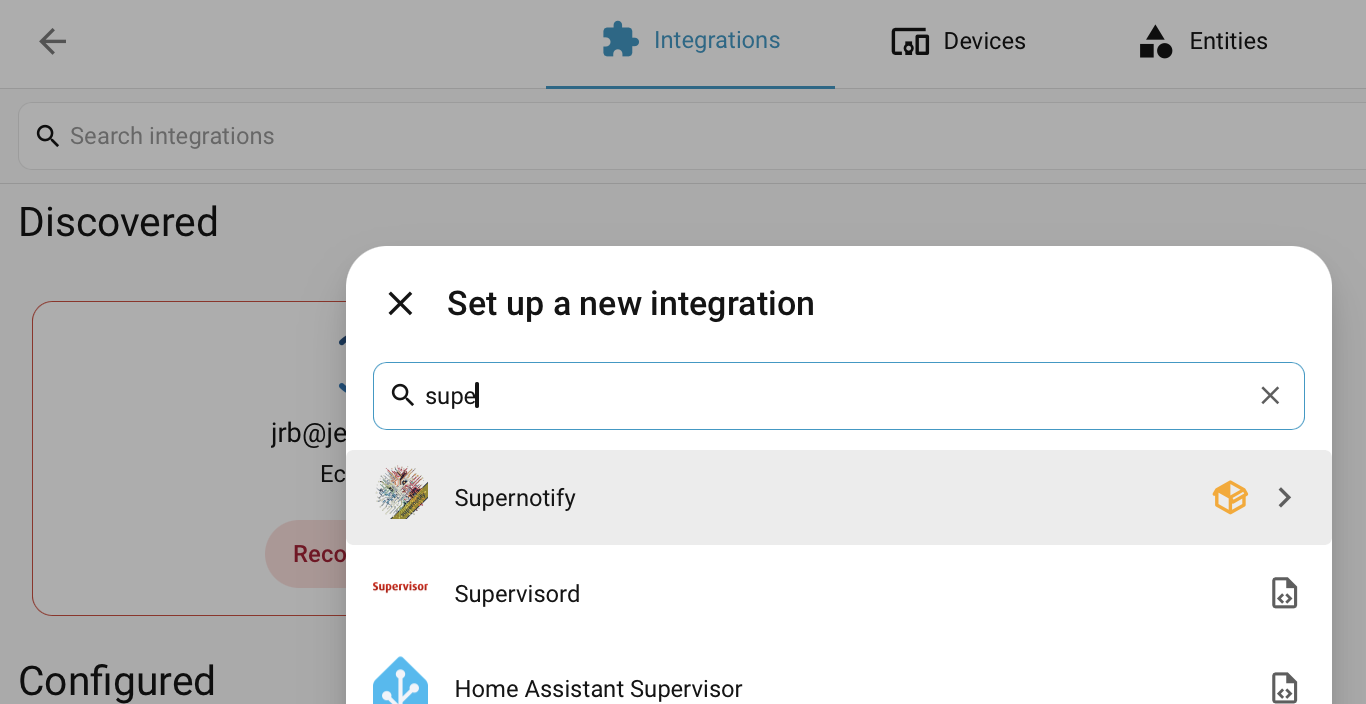
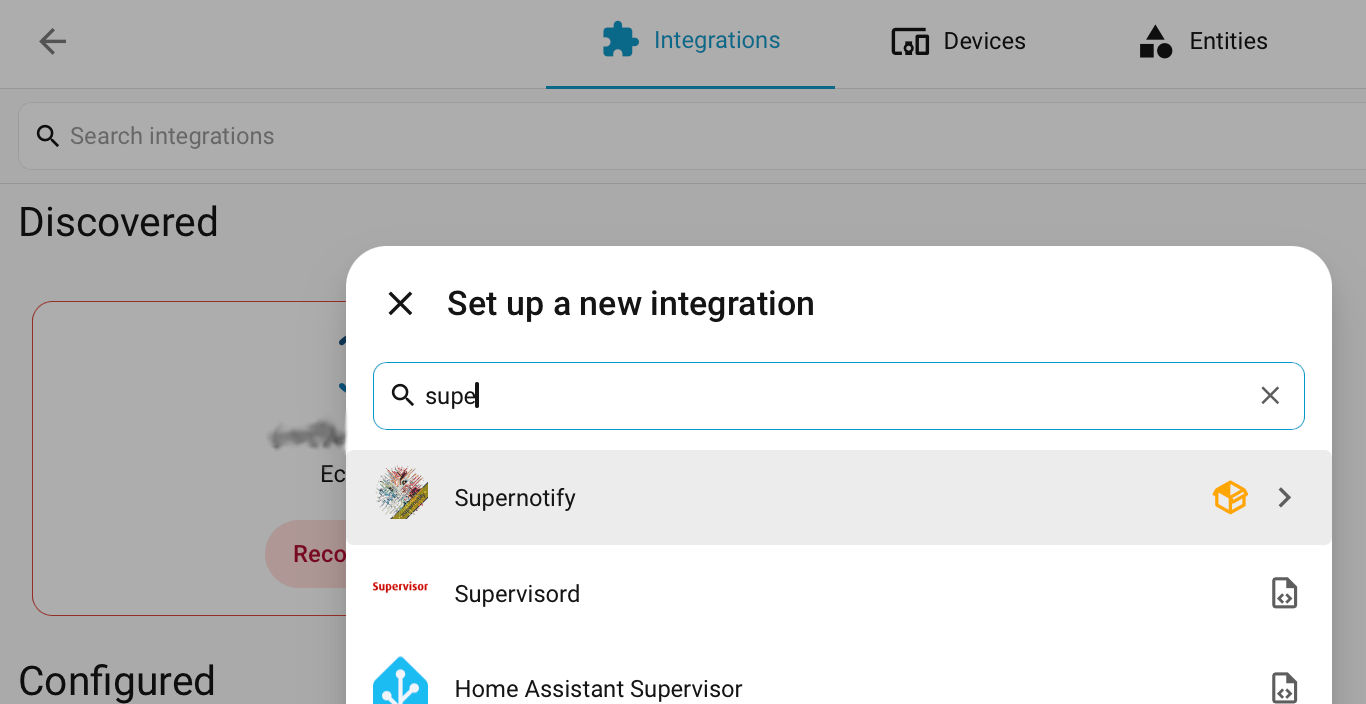
docs

diff --git a/docs/developer/design/packages.md b/docs/developer/design/packages.md
@@ -1,0 +1,310 @@
+# Packages
+
+(provisional name for implementation)
+
+## Problem
+
+Often SuperNotify is a small part of what's needed for example setting up notifications - Frigate involves understanding blueprints using live activities for a dishwasher requires setting up multiple automations and fine tuning mobile push the blocks. The real value from SuperNotify comes when a less technical user is able to immediately start getting notifications from things like their washing machine or dishwasher of Frigate with minimal technical understanding zero knowledge of YAML and minimal automation set up.
+
+## Vision
+
+When setting up Supernotify, it checks for things that could have automatic notifications configured, and asks if want to switch those on.
+
+Each package has a detection function, which is used to discover if it can be applied, a set of default deliveries and messages (with translation keys) and the ability to customize the notification part with all the usual Supernotify options.
+
+Everything about this is ConfigFlow based, there is no YAML required, nor offered for advanced usage.
+
+The "packages" could also be selected after the fact, either directly in the main Supernotify ConfigFlow, or as "helper" objects.
+
+## Examples
+
+### Live Notifications for Appliances
+
+If there's a connected appliance like dishwasher, it will send a start and stop [Live Activity](https://companion.home-assistant.io/docs/notifications/live-activities) notification to mobile devices with an appropriate icon.
+
+If the appliance has a time-remaining and/or progress quantity, these will be passed using the `progress` and `chronometer` values. If these are `unavailable` they're not sent and the simpler style prevails.
+
+At the end, there's an additional notification to mobile_push only with special text "clear_notification" that will clear the live dialog box but isn't really a notification in its own right.
+
+Where elapsed and progress are available, the notification will be periodically resent on a timer to update the bar.
+
+If the end never happens, there's a timeout where the notification is auto-cleared.
+
+### Motion Sensors
+
+Home Assistant triggers have made it easier to set up automations for things like PIRs, but they still require automations with triggers and actions, and are another case where auto-detection would simplify for non-tech and expert users.
+
+The blueprint below shows how complicated it becomes when you don't want bothered by alerts if alarm is disarmed, and you want to be very bothered if the house is unoccupied.
+
+```yaml title="Real PIR Blueprint"
+blueprint:
+  name: Generic PIR alert
+  description: Take action if PIR fires
+  domain: automation
+  input:
+    motion_sensor:
+      name: Motion Sensor
+      description: This sensor will trigger the actions.
+      selector:
+        entity:
+          filter:
+            device_class: motion
+            domain: binary_sensor
+
+    details:
+      name: Alert details
+      description: Details of the sensor for alert
+      default: ""
+      selector:
+        text:
+    danger:
+      name: Danger flag
+      description: Is there a potential danger or just a sheep
+      default: true
+      selector:
+        boolean:
+
+    light:
+      name: Light
+      description: Light entity to switch on
+      default: switch.library_standard_lamp
+      selector:
+        target:
+          entity:
+            domain: switch
+    camera:
+      name: CCTV Camera
+      description: Camera to show on notification
+      default: camera.courtyard
+      selector:
+        media:
+    outdoors:
+      name: Outdoors
+      description: Is in an external zone
+      default: true
+      selector:
+        boolean:
+
+variables:
+  motion_sensor: !input motion_sensor
+  details: !input details
+  danger: !input danger
+  light: !input light
+  camera: !input camera
+  outdoors: !input outdoors
+  description: "{{ details | default(state_attr(motion_sensor,'friendly_name'),true) }}"
+
+triggers:
+  - trigger: state
+    entity_id: !input motion_sensor
+    from: "off"
+    to: "on"
+
+action:
+  - choose:
+      - conditions:
+          - not:
+              - condition: state
+                entity_id: alarm_control_panel.home_alarm_control
+                state: disarmed
+          - condition: time
+            after: "22:00:00"
+            before: "06:00:00"
+          - condition: template
+            value_template: "{{ danger }}"
+        sequence:
+          # armed, dangerous, night
+          parallel:
+            - action: switch.turn_on
+              entity_id: switch.middle_bedroom_light
+            - action: switch.turn_on
+              entity_id: switch.library_standard_lamp
+            - action: switch.turn_on
+              continue_on_error: true
+              entity_id: !input light
+            - action: supernotify.notify
+              continue_on_error: true
+              data:
+                title: "Home Security: {{ description }}"
+                message: "WARNING! Night motion in {{ description }}"
+                data:
+                  priority: high
+                  media:
+                    camera_entity_id: !input camera
+
+      - conditions:
+          - not:
+              - condition: state
+                entity_id: alarm_control_panel.home_alarm_control
+                state: disarmed
+          - condition: time
+            before: "22:00:00"
+            after: "06:00:00"
+          - condition: template
+            value_template: "{{ danger }}"
+        sequence:
+          # armed, dangerous, day
+          parallel:
+            - action: supernotify.notify
+              continue_on_error: true
+              data:
+                title: "Home Security: {{ description }}"
+                message: "WARNING! Motion in {{ description }}"
+                data:
+                  priority: high
+                  media:
+                    camera_entity_id: !input camera
+
+      - conditions:
+          and:
+            - condition: template
+              value_template: "{{ danger and outdoors }}"
+            - not:
+                - condition: state
+                  entity_id: alarm_control_panel.home_alarm_control
+                  state: disarmed
+
+        sequence:
+          # armed, dangerous, outdoor, day or night
+          - action: supernotify.notify
+            continue_on_error: true
+            data:
+              title: "Home Security: {{ description }}"
+              message: "Warning! Outdoors motion in {{ description }}"
+              data:
+                media:
+                  camera_entity_id: !input camera
+
+      - conditions:
+          and:
+            - condition: template
+              value_template: "{{ danger and not outdoors}}"
+            - not:
+                - condition: state
+                  entity_id: alarm_control_panel.home_alarm_control
+                  state: disarmed
+            - condition: time
+              after: "22:00:00"
+              before: "06:00:00"
+
+        sequence:
+          # armed, dangerous, indoors, night
+          parallel:
+            - action: supernotify.notify
+              continue_on_error: true
+              data:
+                title: "Home Security: {{ description }}"
+                message: "WARNING! Indoors night motion in {{ description }}"
+                data:
+                  media:
+                    camera_entity_id: !input camera
+
+      - conditions:
+          condition: and
+          conditions:
+            - condition: or
+              conditions:
+                - condition: state
+                  entity_id: person.joe_mctest
+                  state: home
+                - condition: state
+                  entity_id: person.jane_mctest
+                  state: home
+            - condition: template
+              value_template: "{{ not danger }}"
+            - condition: state
+              entity_id: alarm_control_panel.home_alarm_control
+              state: armed_night
+            - condition: time
+              after: "22:00:00"
+              before: "06:00:00"
+        sequence:
+          # armed at night, not dangerous, occupied
+          parallel:
+            - action: switch.turn_on
+              continue_on_error: true
+              entity_id: !input light
+            - action: supernotify.notify
+              continue_on_error: true
+              data:
+                title: "Home Security: {{ description}}"
+                message: "Night motion while occupied in {{ description }}"
+                data:
+                  priority: low
+                  media:
+                    camera_entity_id: !input camera
+```
+
+### Frigate
+
+The [Frigate Blueprint](https://github.com/SgtBatten/HA_blueprints/tree/main/Frigate_Camera_Notifications) works well, however using Blueprints is still not very non-tech friendly, a lot of the blueprint logic is doing things in clumsy YAML that are already done in Supernotify, and there are some long standing bugs like mobile groups to work around.
+
+The Frigate `package` would pick up that there's a known MQTT topic or Frigate proxy, and set up an MQTT subscription for mobile push, email and voice announce by default. It would offer everything the blueprint has, address known bugs and workarounds like faking a `notify_device` and avoiding broken images.
+
+
+```yaml title="Current Supernotify usage of Frigate Blueprint"
+use_blueprint:
+    path: frigate/beta.yaml
+    input:
+      camera:
+      - camera.driveway_frigate
+      notify_device: ad4dccb09ec6fd181fb01aecb8de3785
+      notify_group: supernotifier
+      critical: true
+      labels:
+      - car
+      - bicycle
+      - motorcycle
+      video: '{{base_url}}/api/frigate{{client_id}}/notifications/{{id}}/{{camera}}/master.m3u8'
+      presence_filter:
+      - ''
+      mqtt_topic: frigate/reviews
+      ios_live_view: camera.driveway
+      base_url: https://home.23acaciaavenue.org
+      tap_action: '{{base_url}}/api/frigate{{client_id}}/notifications/{{id}}/{{camera}}/master.m3u8'
+```
+
+Frigate could have multiple flows - regular event detection (`frigate/reviews`), GenAI events (`frigate/tracked_object_update`) with different options per camera, or using message checks or HA state to prioritize or tune delivery.
+
+```yaml title="Real Frigate Scenarios"
+  silence_frigate:
+    alias: No notification for uninteresting frigate genai
+    conditions:
+      condition: and
+      conditions:
+        - "{{'A Person, Billy' in notification_message|upper}}"
+        - "{{'A Person, Jean' in notification_message|upper}}"
+        - "{{'UNKNOWN BIRD' in notification_message|upper}}"
+        - condition: state
+          entity_id: alarm_control_panel.home_alarm_control
+          state:
+            - disarmed
+            - armed_home
+            - armed_night
+    delivery:
+      .*:
+        enabled: false
+  person_detected_disarmed:
+    alias: only chime for people when disarmed
+    delivery:
+      .*:
+        enabled: false
+    conditions:
+      condition: and
+      conditions:
+        - "{{'person was detected' in notification_message|lower }}"
+        - condition: state
+          entity_id: alarm_control_panel.home_alarm_control
+          state:
+            - disarmed
+```
+
+## Questions
+
+- What does the UI look like? Does this fit into an existing HA concept?
+- Should it generate actual notifications or be entirely in code?
+- Are those multiple Frigate cameras, and priorities, and GenAI detections multiple packages? sub-packages?
+  - Is there a package per camera, and a separate one for the GenAI events?
+- "Packages" isn't a great name, but can't be anything that clashes with Home Assistant nomenclature
+  - "Notification Presets"?
+  - "Routines"?

diff --git a/docs/getting_started.md b/docs/getting_started.md
@@ -38,7 +38,7 @@ Advanced configuration, like custom deliveries, transports, scenarios, recipient
 
 Send a test notification from [Tools Action Tab](https://www.home-assistant.io/docs/tools/dev-tools/#actions-tab) or start [sending notifications](usage/notifying.md) from automations. Use the `supernotify.notify` action to craft the notification, which can be nothing more than a single `message`.
 
-![Tools Action](assets/images/tools_action_notify.png){width=400}
+![Tools Action](assets/images/tools_action_notify.png){width=600}
 
 This first notification will go out all mobile devices in the house. To limit it, list the mobile devices, or the `person` entities as targets in the notification:
 
@@ -48,9 +48,9 @@ If you have Alexa Devices, use `alexa_devices_announce_all` or `alexa_devices_sp
 
 ### Add a Notification Action to an Automation
 
-![Select Action](./assets/images/add_action_automation.png){width=400}
+![Select Action](./assets/images/add_action_automation.png){width=600}
 
-![Configure Action](./assets/images/automation_action_simple.png){width=400}
+![Configure Action](./assets/images/automation_action_simple.png){width=600}
 
 ### Add to the Dashboard
 
